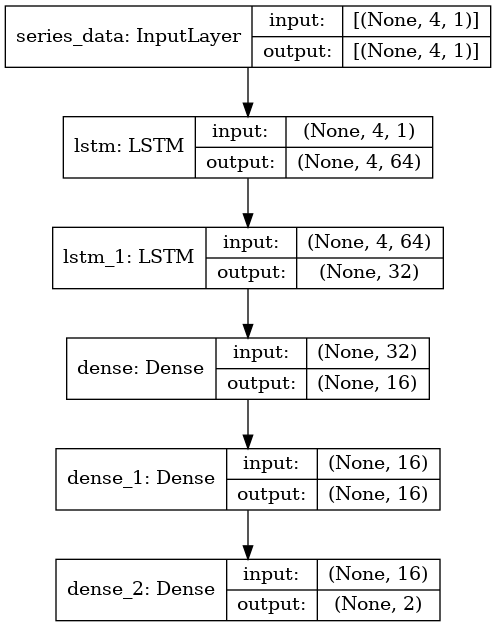
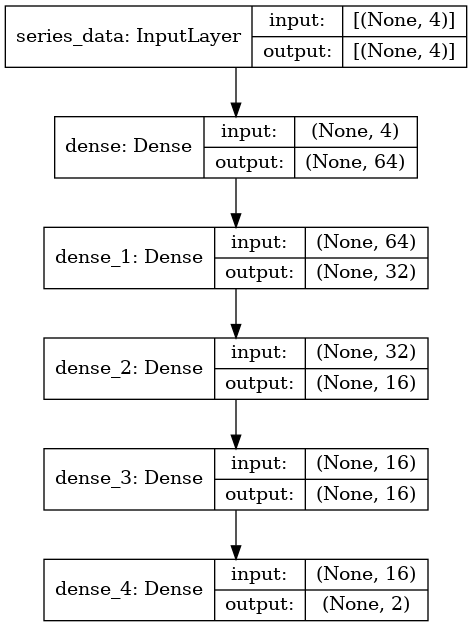
commit

diff --git a/dqn.py b/dqn.py
@@ -24,7 +24,7 @@ class DQN:
     :param eps_change_length: (int) The number of episodes that is taken to change epsilon.
     """
     
-    def __init__(self, env, window_size=12, replay_buffer_size=5000, replay_batch_size=128, learning_starts=1000, learning_rate=0.0025, gamma=0.99, initial_eps=1.0, final_eps=0.1, eps_change_length=1000, load_Qfunc=False, Qfunc_path=None):
+    def __init__(self, env, window_size=12, replay_buffer_size=5000, replay_batch_size=128, n_replay_epoch=1, learning_starts=1000, learning_rate=0.0025, gamma=0.99, initial_eps=1.0, final_eps=0.1, eps_change_length=1000, load_Qfunc=False, Qfunc_path=None):
         """
         Environment
         """
@@ -38,6 +38,7 @@ class DQN:
         self._replay_buffer_size = replay_buffer_size
         self._replay_batch_size = replay_batch_size
         self._replay_buffer = deque(maxlen=self._replay_buffer_size)
+        self._n_replay_epoch = n_replay_epoch
 
         """
         Learning
@@ -62,9 +63,12 @@ class DQN:
         #print(self._Qfunc.summary())
 
     def _init_Qfunc(self):
-        series_input = Input(shape=(self._window_size, 1), name='series_data')
-        series_net = LSTM(64, return_sequences=True)(series_input)
-        series_net = LSTM(32, return_sequences=False)(series_net)
+        series_input = Input(shape=(self._window_size,), name='series_data')
+        #series_input = Input(shape=(self._window_size, 1), name='series_data')
+        #series_net = LSTM(64, return_sequences=True)(series_input)
+        #series_net = LSTM(32, return_sequences=False)(series_net)
+        series_net = Dense(64, activation='relu')(series_input)
+        series_net = Dense(32, activation='relu')(series_net)
         series_net = Dense(16, activation='relu')(series_net)
         series_net = Dense(16, activation='relu')(series_net)
         series_output = Dense(self._n_action, activation='linear')(series_net)
@@ -87,6 +91,8 @@ class DQN:
                 action = self._decide_action(obs, episode_count)
                 # proceed environment
                 next_obs, reward, done, _ = self._env.step(action)
+                if done:
+                    reward = -1
                 next_obs = next_obs.reshape(1, -1, 1)
                 # store experience
                 self._replay_buffer.append( np.array([obs[0], action, reward, next_obs[0]], dtype=object) )
@@ -166,7 +172,7 @@ class DQN:
         loss = self._Qfunc.fit(
                        obs_batch,
                        target_Q_values,
-                       epochs=1,
+                       epochs=self._n_replay_epoch,
                        verbose=0
                        )
         return loss

diff --git a/debug.py b/debug.py
@@ -10,12 +10,12 @@ def main():
     agent = DQN(
             env=env, 
             window_size=4,
-            eps_change_length=500,
-            learning_starts=10,
+            eps_change_length=100,
+            n_replay_epoch=4,
             initial_eps=1.0
             )
     print('Success to construct')
-    history = agent.learn(total_timesteps=100)
+    history = agent.learn(total_timesteps=5000)
     print(len(agent._replay_buffer))
 
     fig, ax = plt.subplots(1, 3, figsize=(9, 3), tight_layout=True)
